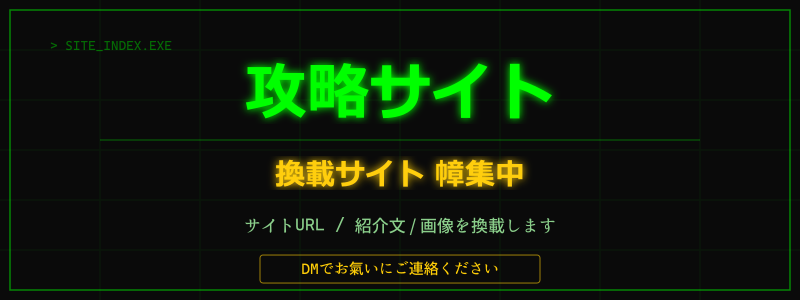
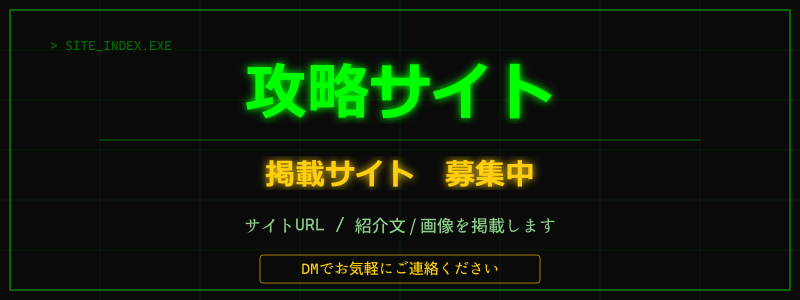
fix: バナー画像の日本語文字化けを修正（UTF-8 SVGファイル経由で再生成）

Changed region(s): [[0.3125, 0.51, 0.6875, 0.63], [0.5938, 0.72, 0.625, 0.78], [0.4375, 0.87, 0.4688, 0.93]]

diff --git a/generate_banners.js b/generate_banners.js
@@ -1,6 +1,7 @@
 /**
  * generate_banners.js
  * YouTuber/Vtuber・攻略サイト募集バナー画像を生成
+ * 日本語テキストをUTF-8で直接埋め込み
  */
 const fs = require('fs');
 const sharp = require('sharp');
@@ -19,13 +20,13 @@ const svgYT = `<svg xmlns="http://www.w3.org/2000/svg" width="800" height="300">
     <line x1="600" y1="0" x2="600" y2="300"/><line x1="700" y1="0" x2="700" y2="300"/>
   </g>
   <rect x="10" y="10" width="780" height="280" fill="none" stroke="#00ff00" stroke-width="1.5" opacity="0.5"/>
-  <text x="50" y="50" fill="#00aa00" font-family="monospace" font-size="13" opacity="0.6">&gt; RECRUITMENT.EXE</text>
-  <text x="400" y="115" fill="#00ff00" font-family="monospace" font-size="50" font-weight="bold" text-anchor="middle" filter="url(#glow)">YouTube / Vtuber</text>
+  <text x="50" y="50" fill="#00aa00" font-family="sans-serif" font-size="13" opacity="0.6">&gt; RECRUITMENT.EXE</text>
+  <text x="400" y="115" fill="#00ff00" font-family="sans-serif" font-size="50" font-weight="bold" text-anchor="middle" filter="url(#glow)">YouTube / Vtuber</text>
   <line x1="100" y1="140" x2="700" y2="140" stroke="#00ff00" stroke-width="1" opacity="0.4"/>
-  <text x="400" y="185" fill="#ffce07" font-family="monospace" font-size="30" text-anchor="middle" font-weight="bold" filter="url(#glow)">&#27963;&#21205;&#32057;&#20171; &#25387;&#36020;&#32773; &#24155;&#38598;&#20013;</text>
-  <text x="400" y="232" fill="#aaffaa" font-family="monospace" font-size="17" text-anchor="middle" opacity="0.8">&#32057;&#20171;&#30011;&#20687; / &#12481;&#12515;&#12531;&#12493;&#12523;URL / &#32057;&#20171;&#25991;&#12434;&#25563;&#36617;&#12375;&#12414;&#12377;</text>
+  <text x="400" y="185" fill="#ffce07" font-family="sans-serif" font-size="30" text-anchor="middle" font-weight="bold" filter="url(#glow)">活動紹介　掲載者　募集中</text>
+  <text x="400" y="232" fill="#aaffaa" font-family="sans-serif" font-size="17" text-anchor="middle" opacity="0.8">紹介画像 / チャンネルURL / 紹介文を掲載します</text>
   <rect x="260" y="255" width="280" height="28" rx="3" fill="none" stroke="#ffce07" stroke-width="1" opacity="0.6"/>
-  <text x="400" y="274" fill="#ffce07" font-family="monospace" font-size="15" text-anchor="middle">DM&#12391;&#12362;&#27083;&#12356;&#12395;&#12372;&#36899;&#32097;&#12367;&#12384;&#12373;&#12356;</text>
+  <text x="400" y="274" fill="#ffce07" font-family="sans-serif" font-size="15" text-anchor="middle">DMでお気軽にご連絡ください</text>
 </svg>`;
 
 const svgGuide = `<svg xmlns="http://www.w3.org/2000/svg" width="800" height="300">
@@ -42,20 +43,26 @@ const svgGuide = `<svg xmlns="http://www.w3.org/2000/svg" width="800" height="30
     <line x1="600" y1="0" x2="600" y2="300"/><line x1="700" y1="0" x2="700" y2="300"/>
   </g>
   <rect x="10" y="10" width="780" height="280" fill="none" stroke="#00ff00" stroke-width="1.5" opacity="0.5"/>
-  <text x="50" y="50" fill="#00aa00" font-family="monospace" font-size="13" opacity="0.6">&gt; SITE_INDEX.EXE</text>
-  <text x="400" y="115" fill="#00ff00" font-family="monospace" font-size="62" font-weight="bold" text-anchor="middle" filter="url(#glow)">&#25915;&#30053;&#12469;&#12452;&#12488;</text>
+  <text x="50" y="50" fill="#00aa00" font-family="sans-serif" font-size="13" opacity="0.6">&gt; SITE_INDEX.EXE</text>
+  <text x="400" y="115" fill="#00ff00" font-family="sans-serif" font-size="62" font-weight="bold" text-anchor="middle" filter="url(#glow)">攻略サイト</text>
   <line x1="100" y1="140" x2="700" y2="140" stroke="#00ff00" stroke-width="1" opacity="0.4"/>
-  <text x="400" y="185" fill="#ffce07" font-family="monospace" font-size="30" text-anchor="middle" font-weight="bold" filter="url(#glow)">&#25563;&#36617;&#12469;&#12452;&#12488; &#24155;&#38598;&#20013;</text>
-  <text x="400" y="232" fill="#aaffaa" font-family="monospace" font-size="17" text-anchor="middle" opacity="0.8">&#12469;&#12452;&#12488;URL / &#32057;&#20171;&#25991; / &#30011;&#20687;&#12434;&#25563;&#36617;&#12375;&#12414;&#12377;</text>
+  <text x="400" y="185" fill="#ffce07" font-family="sans-serif" font-size="30" text-anchor="middle" font-weight="bold" filter="url(#glow)">掲載サイト　募集中</text>
+  <text x="400" y="232" fill="#aaffaa" font-family="sans-serif" font-size="17" text-anchor="middle" opacity="0.8">サイトURL / 紹介文 / 画像を掲載します</text>
   <rect x="260" y="255" width="280" height="28" rx="3" fill="none" stroke="#ffce07" stroke-width="1" opacity="0.6"/>
-  <text x="400" y="274" fill="#ffce07" font-family="monospace" font-size="15" text-anchor="middle">DM&#12391;&#12362;&#27683;&#12356;&#12395;&#12372;&#36899;&#32097;&#12367;&#12384;&#12373;&#12356;</text>
+  <text x="400" y="274" fill="#ffce07" font-family="sans-serif" font-size="15" text-anchor="middle">DMでお気軽にご連絡ください</text>
 </svg>`;
 
+// UTF-8エンコーディングで書き出し
+fs.writeFileSync('_yt_banner.svg', svgYT, 'utf8');
+fs.writeFileSync('_guide_banner.svg', svgGuide, 'utf8');
+
 Promise.all([
-    sharp(Buffer.from(svgYT)).png().toFile('images/youtuber-banner.png'),
-    sharp(Buffer.from(svgGuide)).png().toFile('images/guide-banner.png')
+  sharp('_yt_banner.svg').png().toFile('images/youtuber-banner.png'),
+  sharp('_guide_banner.svg').png().toFile('images/guide-banner.png')
 ]).then(() => {
-    console.log('バナー画像生成完了: youtuber-banner.png / guide-banner.png');
+  fs.unlinkSync('_yt_banner.svg');
+  fs.unlinkSync('_guide_banner.svg');
+  console.log('バナー画像生成完了: youtuber-banner.png / guide-banner.png');
 }).catch(e => {
-    console.error('エラー:', e.message);
+  console.error('エラー:', e.message);
 });
